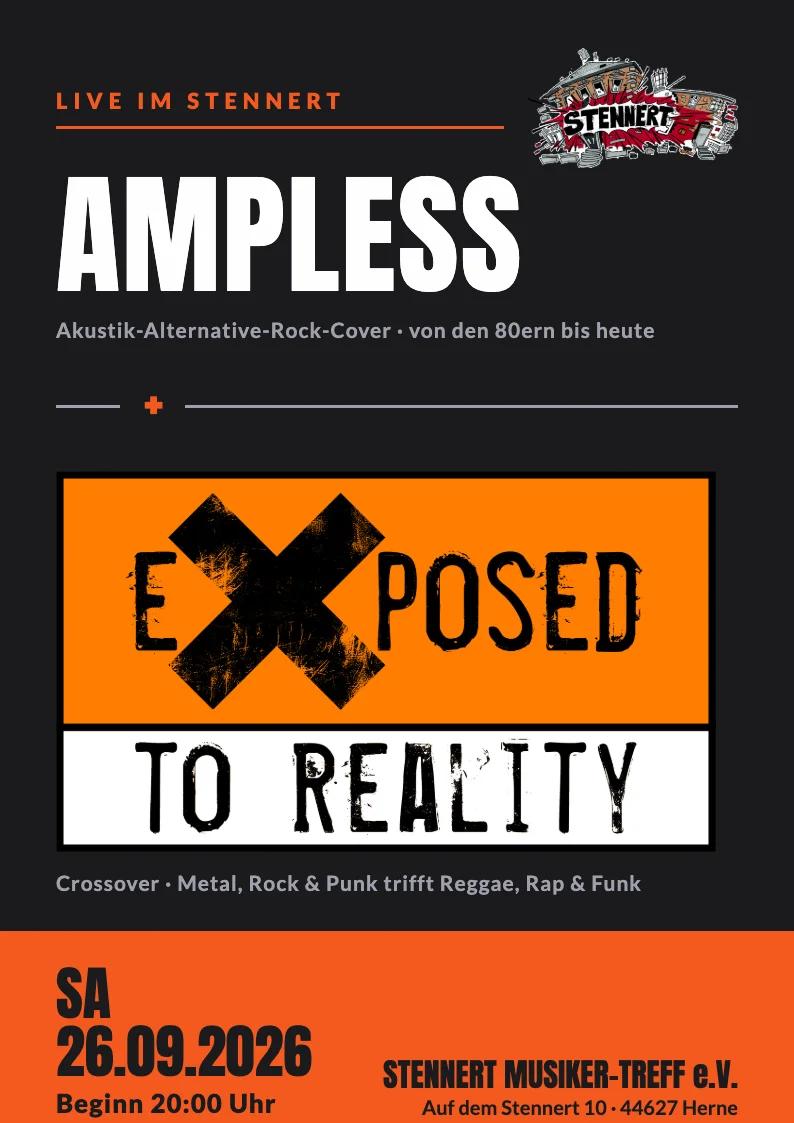
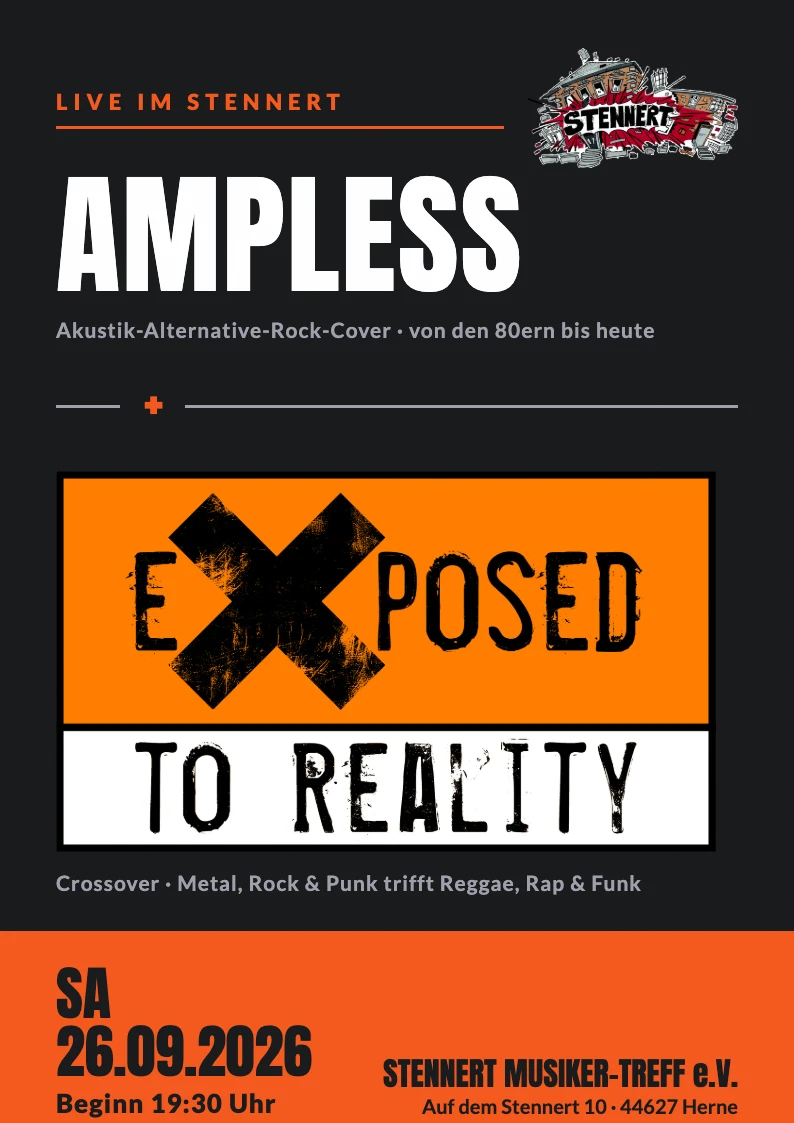
Startzeit 19:39

diff --git a/band/index.html b/band/index.html
@@ -153,7 +153,7 @@ durch den ein oder anderen Coversong – einem Publikum zu präsentieren.      <
         <tr class="animatableY">
           <td>26.09.2026</td>
           <td><span class="white"><a href="">Stennert</a></span> &middot; mit Ampless<br />Herne</td>
-          <td>20:00</td>
+          <td>19:30</td>
         </tr>
       </table>
 
